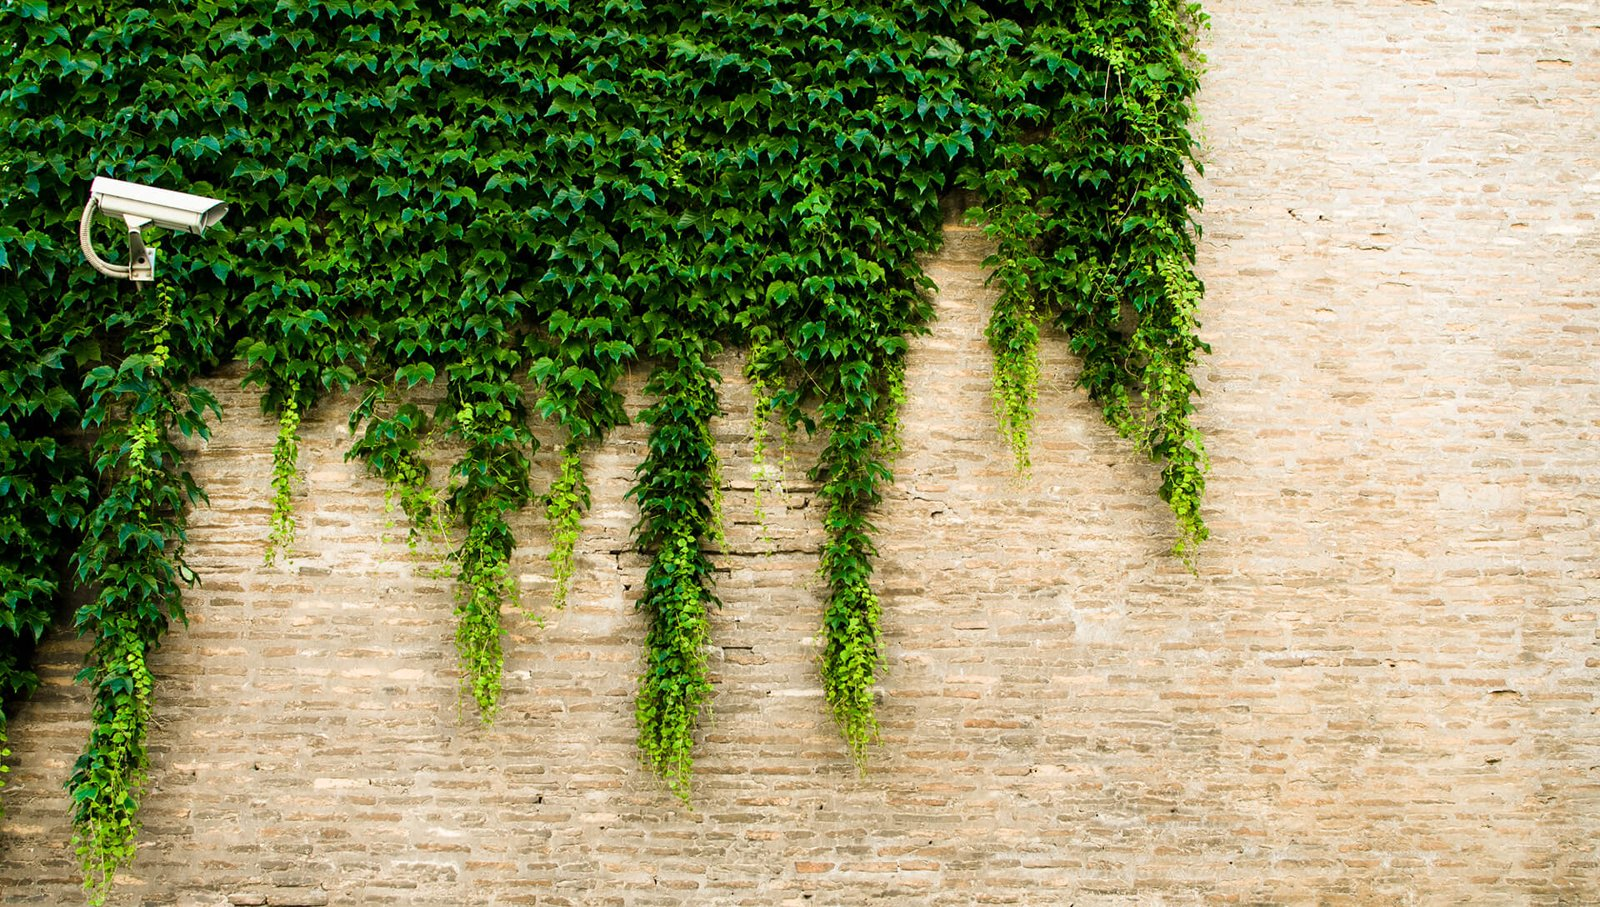
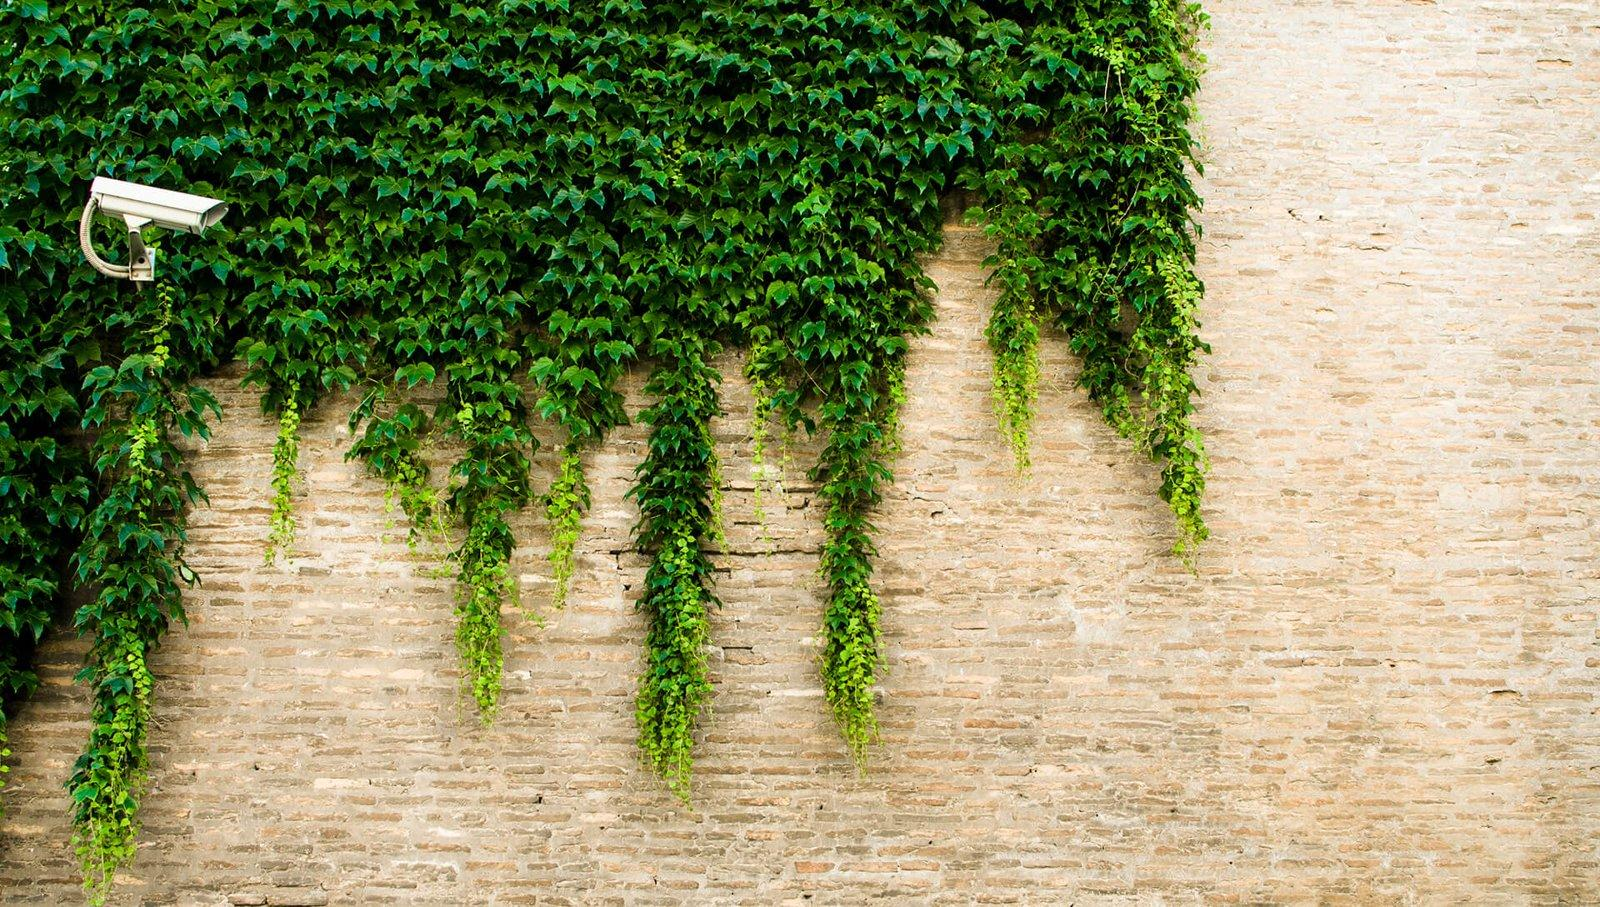
Gate the deploy on image size and metadata
bin/check-images.py fails if anything under assets/img is over 1600px
or 400KB or carries EXIF, and --fix shrinks, re-encodes and strips in
place. The workflow runs it before the build. Fix the five images that
were still over 400KB.

Changed region(s): [[0.7188, 0.3087, 0.75, 0.3396], [0.7188, 0.0926, 0.75, 0.1235], [0.6875, 0.0309, 0.7188, 0.0617]]

diff --git a/bin/check-images.py b/bin/check-images.py
@@ -1,0 +1,52 @@
+#!/usr/bin/env python3
+"""Fail if any image under assets/img is oversized or carries metadata; --fix shrinks and strips in place.
+
+Limits: longest side 1600px, 400KB, no EXIF. Needs Pillow (pip install pillow).
+"""
+import pathlib
+import sys
+
+from PIL import Image, ImageOps
+
+MAX_PX, MAX_BYTES = 1600, 400_000
+ROOT = pathlib.Path(__file__).resolve().parent.parent / 'assets' / 'img'
+# ponytail: favicons are generated at fixed sizes, leave them alone
+SKIP = {ROOT / 'favicons'}
+
+fix = '--fix' in sys.argv
+bad = []
+for f in sorted(ROOT.rglob('*')):
+    if not f.is_file() or f.suffix.lower() not in ('.jpg', '.jpeg', '.png') or any(s in f.parents for s in SKIP):
+        continue
+    im = Image.open(f)
+    problems = []
+    if max(im.size) > MAX_PX:
+        problems.append(f'{im.size[0]}x{im.size[1]}')
+    if f.stat().st_size > MAX_BYTES:
+        problems.append(f'{f.stat().st_size // 1024}KB')
+    if im.getexif():
+        problems.append('exif')
+    if not problems:
+        continue
+    if fix:
+        im = ImageOps.exif_transpose(im)
+        im.thumbnail((MAX_PX, MAX_PX))
+        if f.suffix.lower() == '.png':
+            im.save(f, 'PNG', optimize=True)
+        else:
+            im = im.convert('RGB')
+            # ponytail: step quality down, then size, until it fits; good enough for a blog
+            for px, q in ((MAX_PX, 85), (MAX_PX, 80), (MAX_PX, 75), (1200, 80)):
+                im.thumbnail((px, px))
+                im.save(f, 'JPEG', quality=q, optimize=True, progressive=True)
+                if f.stat().st_size <= MAX_BYTES:
+                    break
+        print(f'fixed {f.relative_to(ROOT.parent.parent)} ({", ".join(problems)})')
+    else:
+        bad.append(f'{f.relative_to(ROOT.parent.parent)}: {", ".join(problems)}')
+
+if bad:
+    print('\n'.join(bad))
+    print(f'\n{len(bad)} image(s) over {MAX_PX}px / {MAX_BYTES // 1000}KB or with EXIF. Run: python3 bin/check-images.py --fix')
+    sys.exit(1)
+print('images ok')

diff --git a/CLAUDE.md b/CLAUDE.md
@@ -11,7 +11,7 @@ Change the site through `_config.yml`, `_tabs/`, `_data/`, `assets/img/favicons/
 - Every image has descriptive alt text; header images use `image: {path, alt}`.
 - Every link is `https://`. Dead external links go to the closest archive.org snapshot, else become plain text.
 - `description:` under 160 characters, in the owner's first-person voice.
-- Images live in `assets/img/YYYY/MM/`, filenames without brackets (Chirpy's JS writes unquoted CSS `url()`). Resize photos and strip all metadata before committing; phone photos carry GPS.
+- Images live in `assets/img/YYYY/MM/`, filenames without brackets (Chirpy's JS writes unquoted CSS `url()`). Longest side 1600px, under 400KB, no EXIF (phone photos carry GPS); the deploy fails otherwise. `python3 bin/check-images.py --fix` resizes, re-encodes and strips in place (needs Pillow).
 - Third-party media is credited on the About page (`_tabs/about.md`), with any changes noted.
 
 ## Privacy
@@ -24,7 +24,7 @@ Posts are `/:year/:month/:day/:title/` and link to each other that way. Category
 
 ## Verify before pushing
 
-Run what CI runs (`.github/workflows/pages-deploy.yml`): `JEKYLL_ENV=production bundle exec jekyll b` then `bundle exec htmlproofer _site --disable-external --ignore-urls "/^http:\/\/127.0.0.1/,/^http:\/\/0.0.0.0/,/^http:\/\/localhost/"`. Locally htmlproofer needs `LANG=en_GB.UTF-8 LC_ALL=en_GB.UTF-8` or it crashes on non-ASCII.
+Run what CI runs (`.github/workflows/pages-deploy.yml`): `python3 bin/check-images.py`, `JEKYLL_ENV=production bundle exec jekyll b` then `bundle exec htmlproofer _site --disable-external --ignore-urls "/^http:\/\/127.0.0.1/,/^http:\/\/0.0.0.0/,/^http:\/\/localhost/"`. Locally htmlproofer needs `LANG=en_GB.UTF-8 LC_ALL=en_GB.UTF-8` or it crashes on non-ASCII.
 
 ## Gotchas
 
